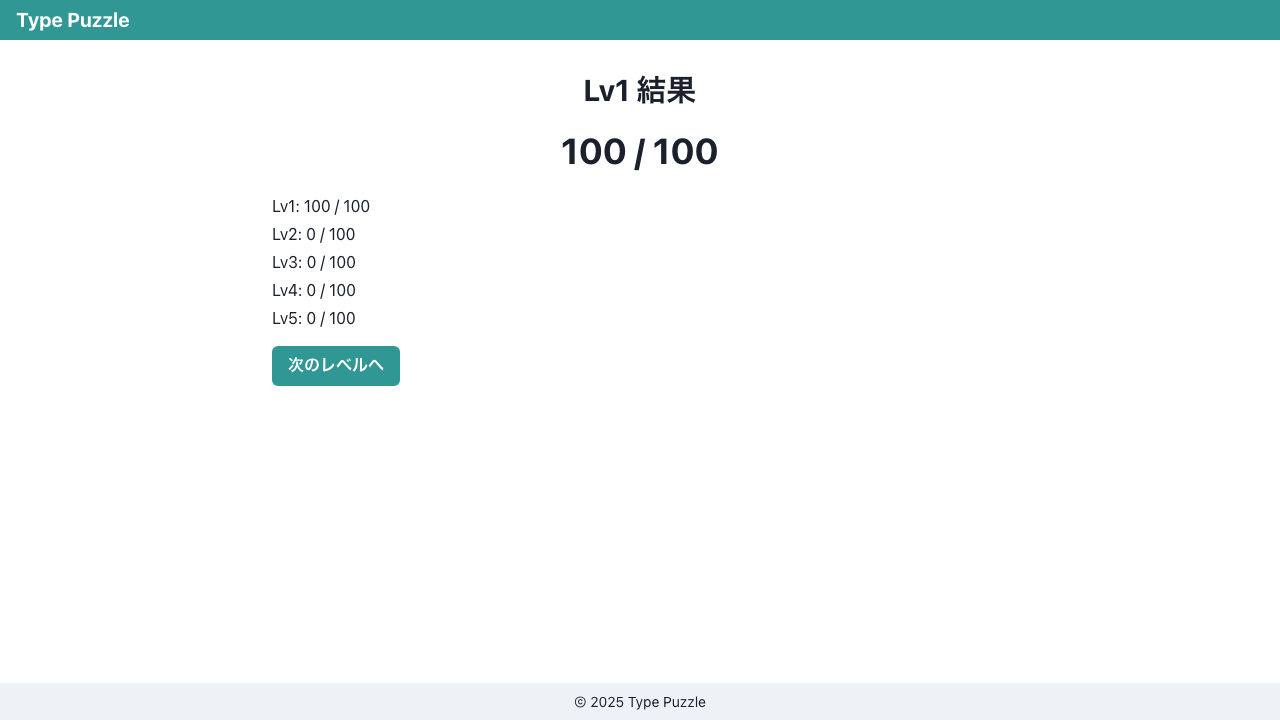
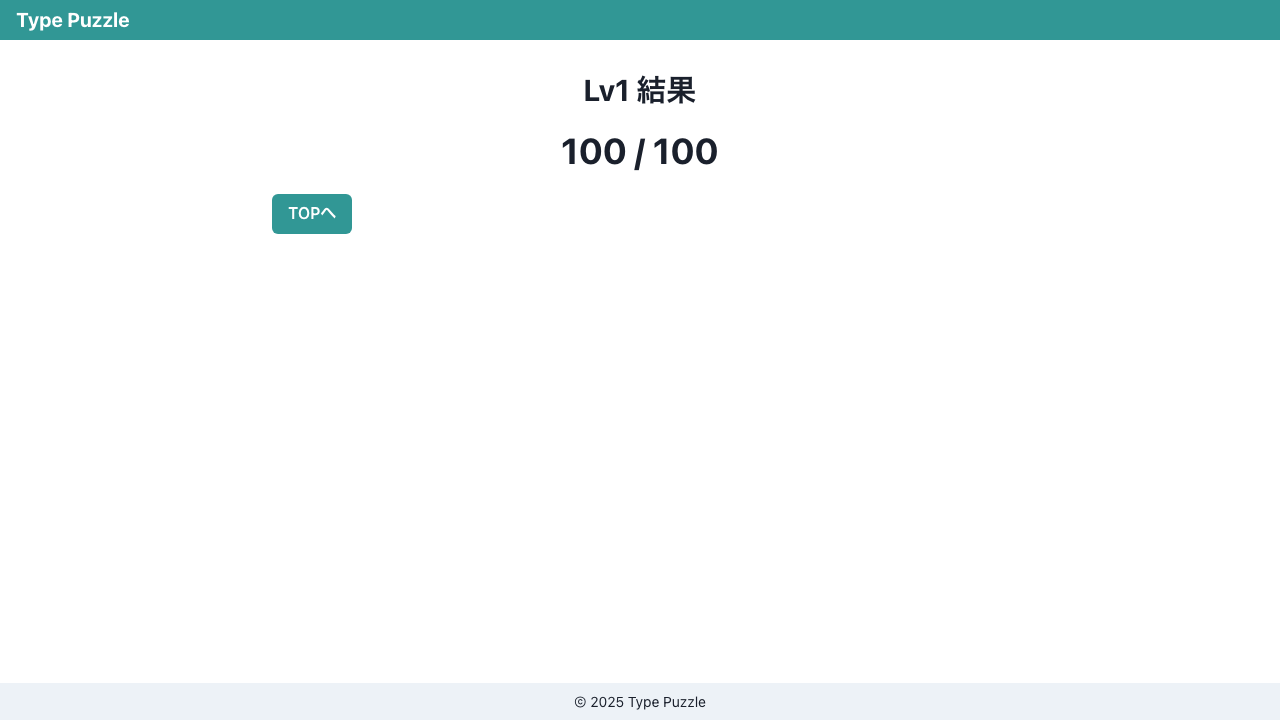
fix: 結果ページの修正
- レベル毎の点数表示を削除
- 「次のレベルへ」ボタンを「TOPへ」に変更
- React hydrationエラーを修正（クライアントサイドでのみCookie読み取り）
- 80点と100点のスクリーンショットを更新

Changed region(s): [[0.1875, 0.2444, 0.3125, 0.55]]

diff --git a/pages/result.tsx b/pages/result.tsx
@@ -1,16 +1,12 @@
-import { useEffect } from 'react';
+import { useEffect, useState } from 'react';
 import {
-  Box,
   Button,
   Container,
   Heading,
-  List,
-  ListItem,
   Text,
 } from '@chakra-ui/react';
 import { useRouter } from 'next/router';
 import Head from 'next/head';
-import puzzlesData from '../data/puzzles.json';
 import { useScoreAnimation } from '../src/hooks/useScoreAnimation';
 import {
   getLevel,
@@ -22,53 +18,50 @@ import {
 
 export default function ResultPage() {
   const router = useRouter();
-  const scoresParam = router.query.scores;
-  const levelParam = router.query.level;
-  const cookieScores = getScores() ?? [];
-  const cookieLevel = getLevel();
-  const detailedResults = getResults();
+  const [finalScore, setFinalScore] = useState(0);
+  const [level, setLevelState] = useState<number | null>(null);
   
-  // 詳細な結果からスコアを計算
-  let calculatedScores = [...cookieScores];
-  if (detailedResults && cookieLevel) {
-    const levelKey = String(cookieLevel);
-    const levelResults = detailedResults[levelKey];
-    if (levelResults) {
-      // 正解数をカウント
-      const correctCount = levelResults.filter(r => r.answer).length;
-      calculatedScores[cookieLevel - 1] = correctCount * 20;
-      // 計算したスコアをCookieに保存
-      setScores(calculatedScores);
+  useEffect(() => {
+    // Client-side only cookie reading
+    const scoresParam = router.query.scores;
+    const levelParam = router.query.level;
+    const cookieScores = getScores() ?? [];
+    const cookieLevel = getLevel();
+    const detailedResults = getResults();
+    
+    // 詳細な結果からスコアを計算
+    let calculatedScores = [...cookieScores];
+    if (detailedResults && cookieLevel) {
+      const levelKey = String(cookieLevel);
+      const levelResults = detailedResults[levelKey];
+      if (levelResults) {
+        // 正解数をカウント
+        const correctCount = levelResults.filter(r => r.answer).length;
+        calculatedScores[cookieLevel - 1] = correctCount * 20;
+        // 計算したスコアをCookieに保存
+        setScores(calculatedScores);
+      }
     }
-  }
+    
+    const scores =
+      typeof scoresParam === 'string'
+        ? scoresParam.split('-').map((s) => parseInt(s, 10))
+        : calculatedScores;
+    const currentLevel =
+      typeof levelParam === 'string'
+        ? parseInt(levelParam, 10)
+        : cookieLevel;
+    
+    setLevelState(currentLevel);
+    setFinalScore(currentLevel ? scores[currentLevel - 1] ?? 0 : 0);
+    setScores(scores);
+    setLevel(currentLevel ?? null);
+  }, [router.query]);
   
-  const scores =
-    typeof scoresParam === 'string'
-      ? scoresParam.split('-').map((s) => parseInt(s, 10))
-      : calculatedScores;
-  const level =
-    typeof levelParam === 'string'
-      ? parseInt(levelParam, 10)
-      : cookieLevel;
-  const total = scores.reduce((sum, s) => sum + (Number.isNaN(s) ? 0 : s), 0);
-  const finalScore = level ? scores[level - 1] ?? 0 : total;
   const animatedScore = useScoreAnimation(finalScore);
 
-  useEffect(() => {
-    setScores(scores);
-    setLevel(level ?? null);
-  }, [scores, level]);
-
   const handleNext = (): void => {
-    if (level && level < puzzlesData.levels.length) {
-      setScores(scores);
-      setLevel(level + 1);
-      router.push('/play');
-    } else {
-      setScores(scores);
-      setLevel(null);
-      router.push('/');
-    }
+    router.push('/');
   };
 
   return (
@@ -84,16 +77,8 @@ export default function ResultPage() {
       <Text fontSize="4xl" fontWeight="bold" mb={4} textAlign="center">
         {animatedScore} / 100
       </Text>
-      <Box mb={4}>
-        <List spacing={1}>
-          {scores.map((s, i) => (
-            <ListItem key={i}>Lv{i + 1}: {s} / 100</ListItem>
-          ))}
-        </List>
-      </Box>
-      {!level && <Text fontSize="lg" mb={4}>合計: {total} 点</Text>}
       <Button colorScheme="teal" onClick={handleNext}>
-        {level && level < puzzlesData.levels.length ? '次のレベルへ' : 'TOPへ戻る'}
+        TOPへ
       </Button>
     </Container>
     </>
